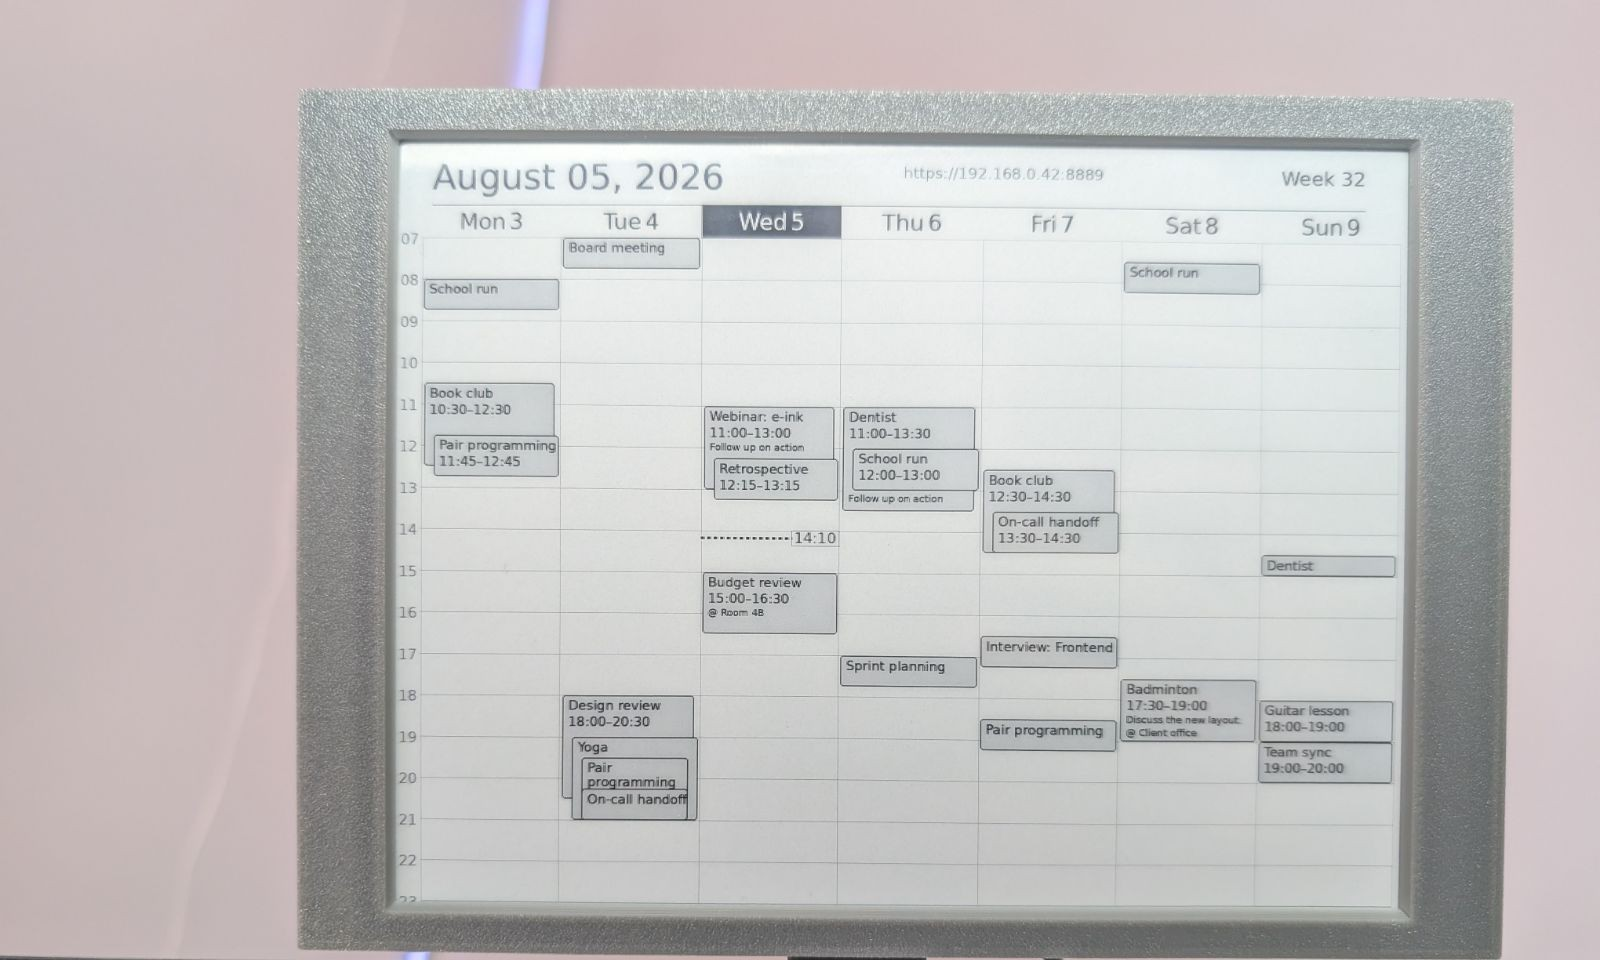
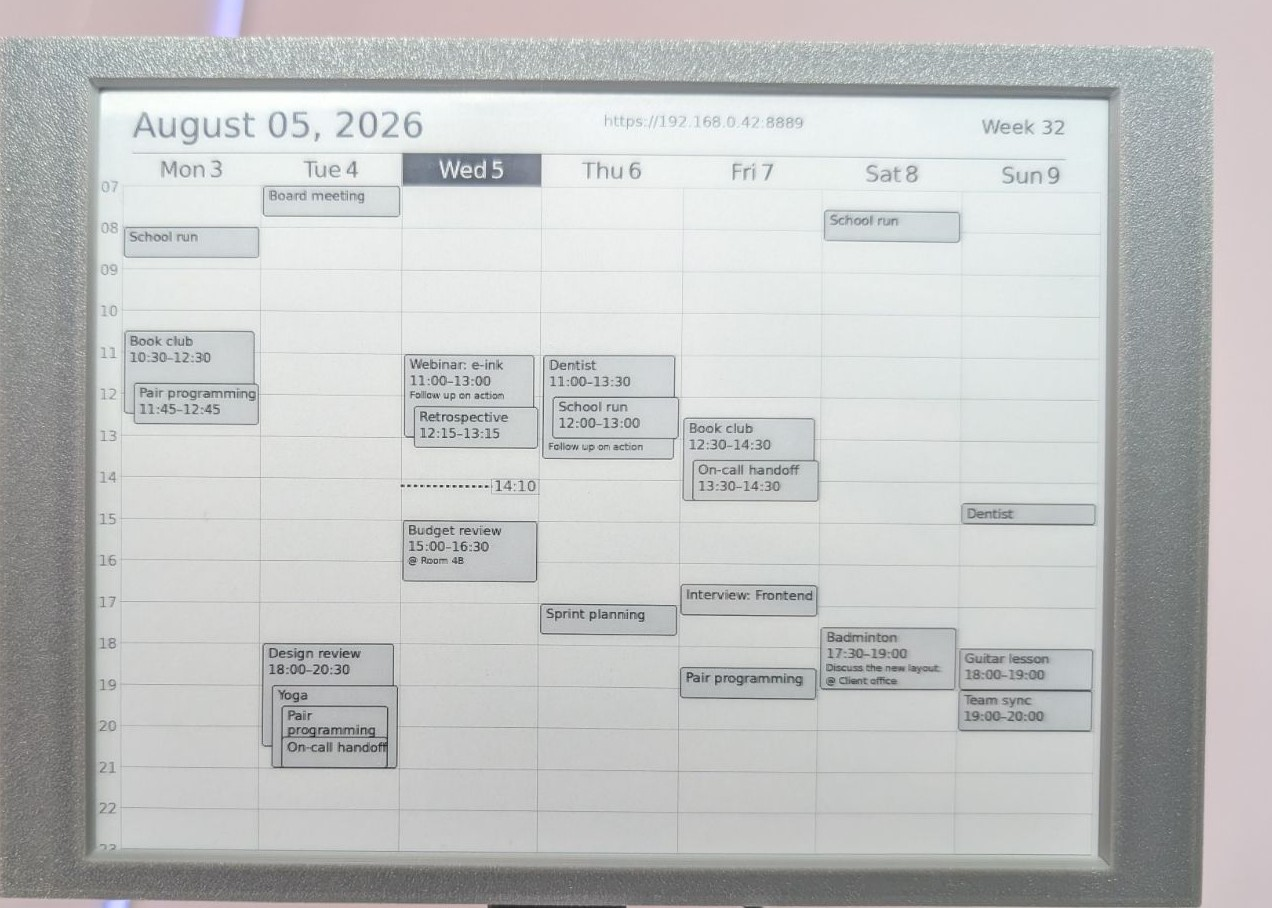
docs: tighten front photo crop; show both photos at equal height
Crop the front shot closer on the left (and slightly top/right). Render both
device photos at a fixed 340px height so they line up; leaving the <img> tags
unwrapped lets GitHub's native lightbox expand them to fullscreen on click.

diff --git a/README.md b/README.md
@@ -8,8 +8,8 @@ with a live current-time indicator line.
 ## The device
 
 <p align="center">
-  <img src="docs/photos/eink-panel-front.jpg" width="49%" alt="E-ink calendar panel, front view" />
-  <img src="docs/photos/eink-panel-angle.jpg" width="49%" alt="E-ink calendar panel, angled view" />
+  <img src="docs/photos/eink-panel-front.jpg" alt="E-ink calendar panel, front view" height="340" />
+  <img src="docs/photos/eink-panel-angle.jpg" alt="E-ink calendar panel, angled view" height="340" />
 </p>
 
 A Waveshare 7.8" e-paper panel in a 3D-printed frame, driven by an Orange Pi Zero 2W —
